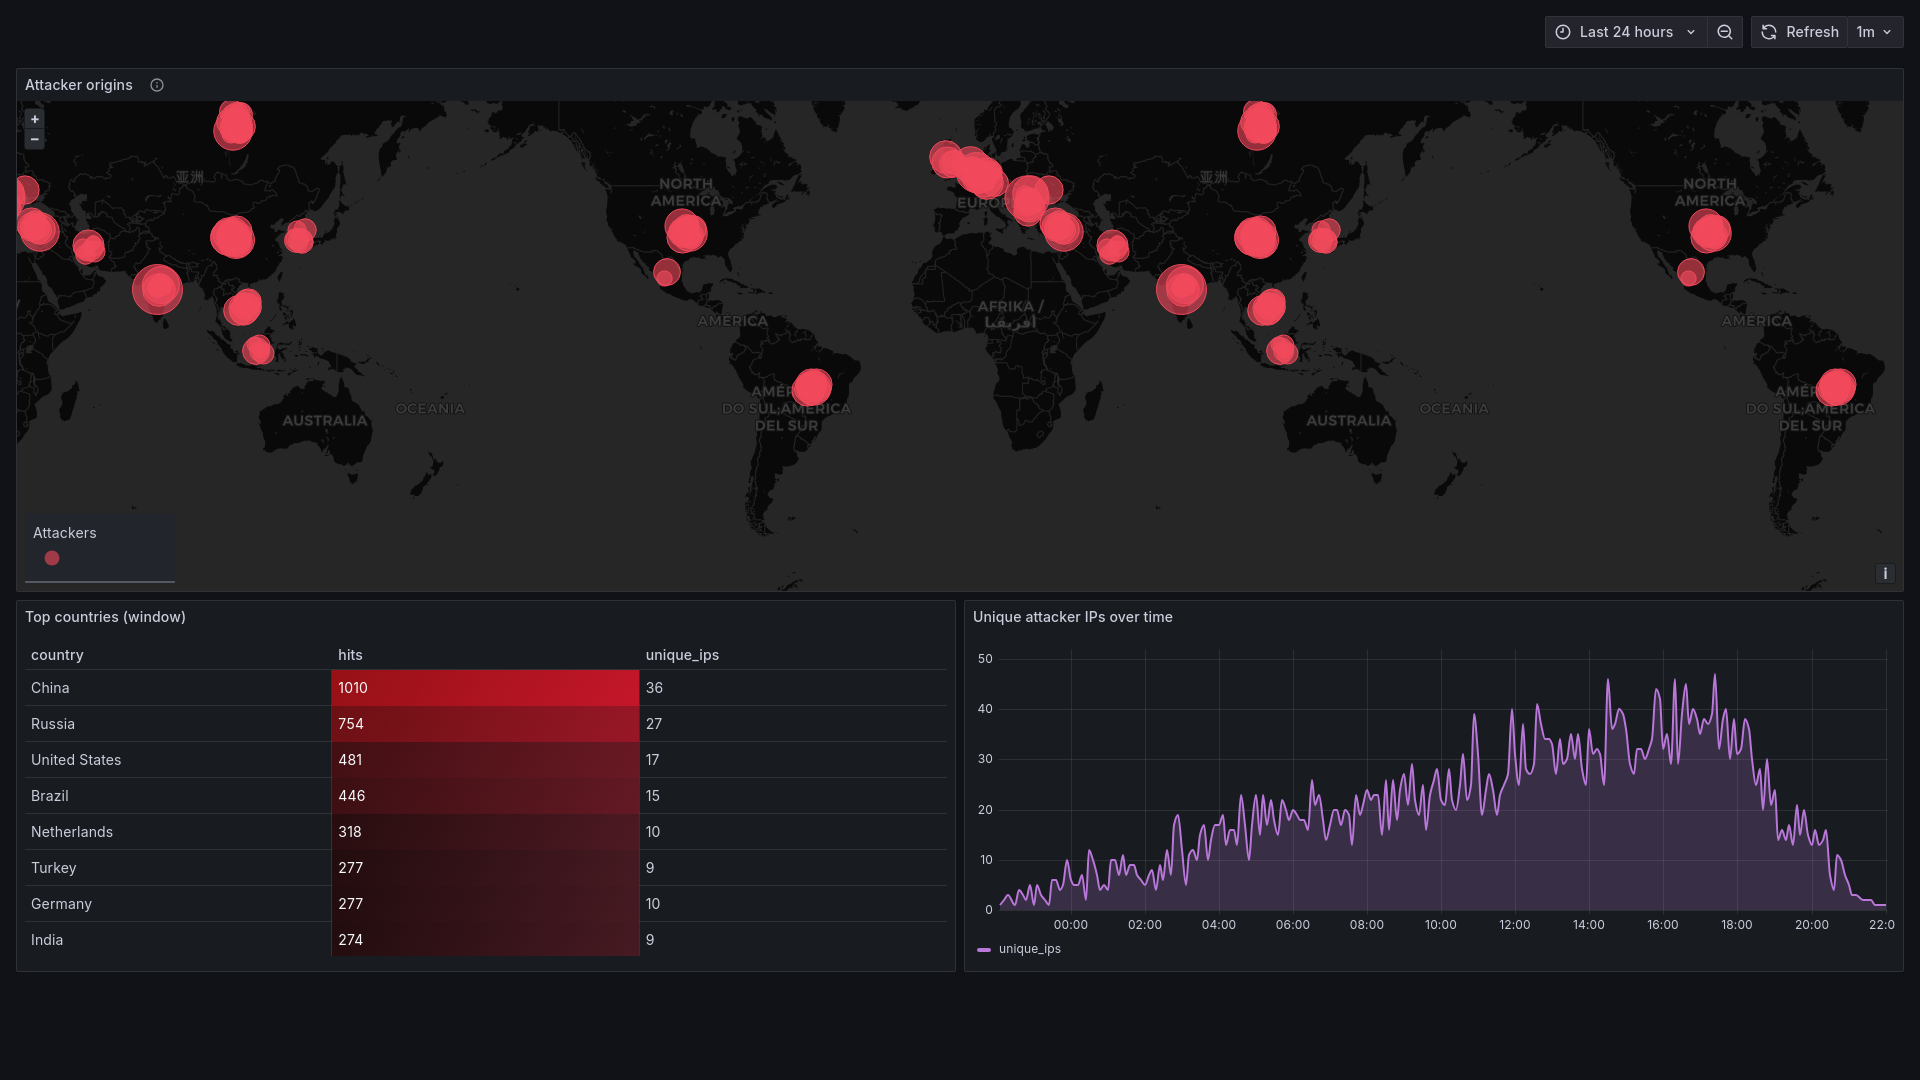
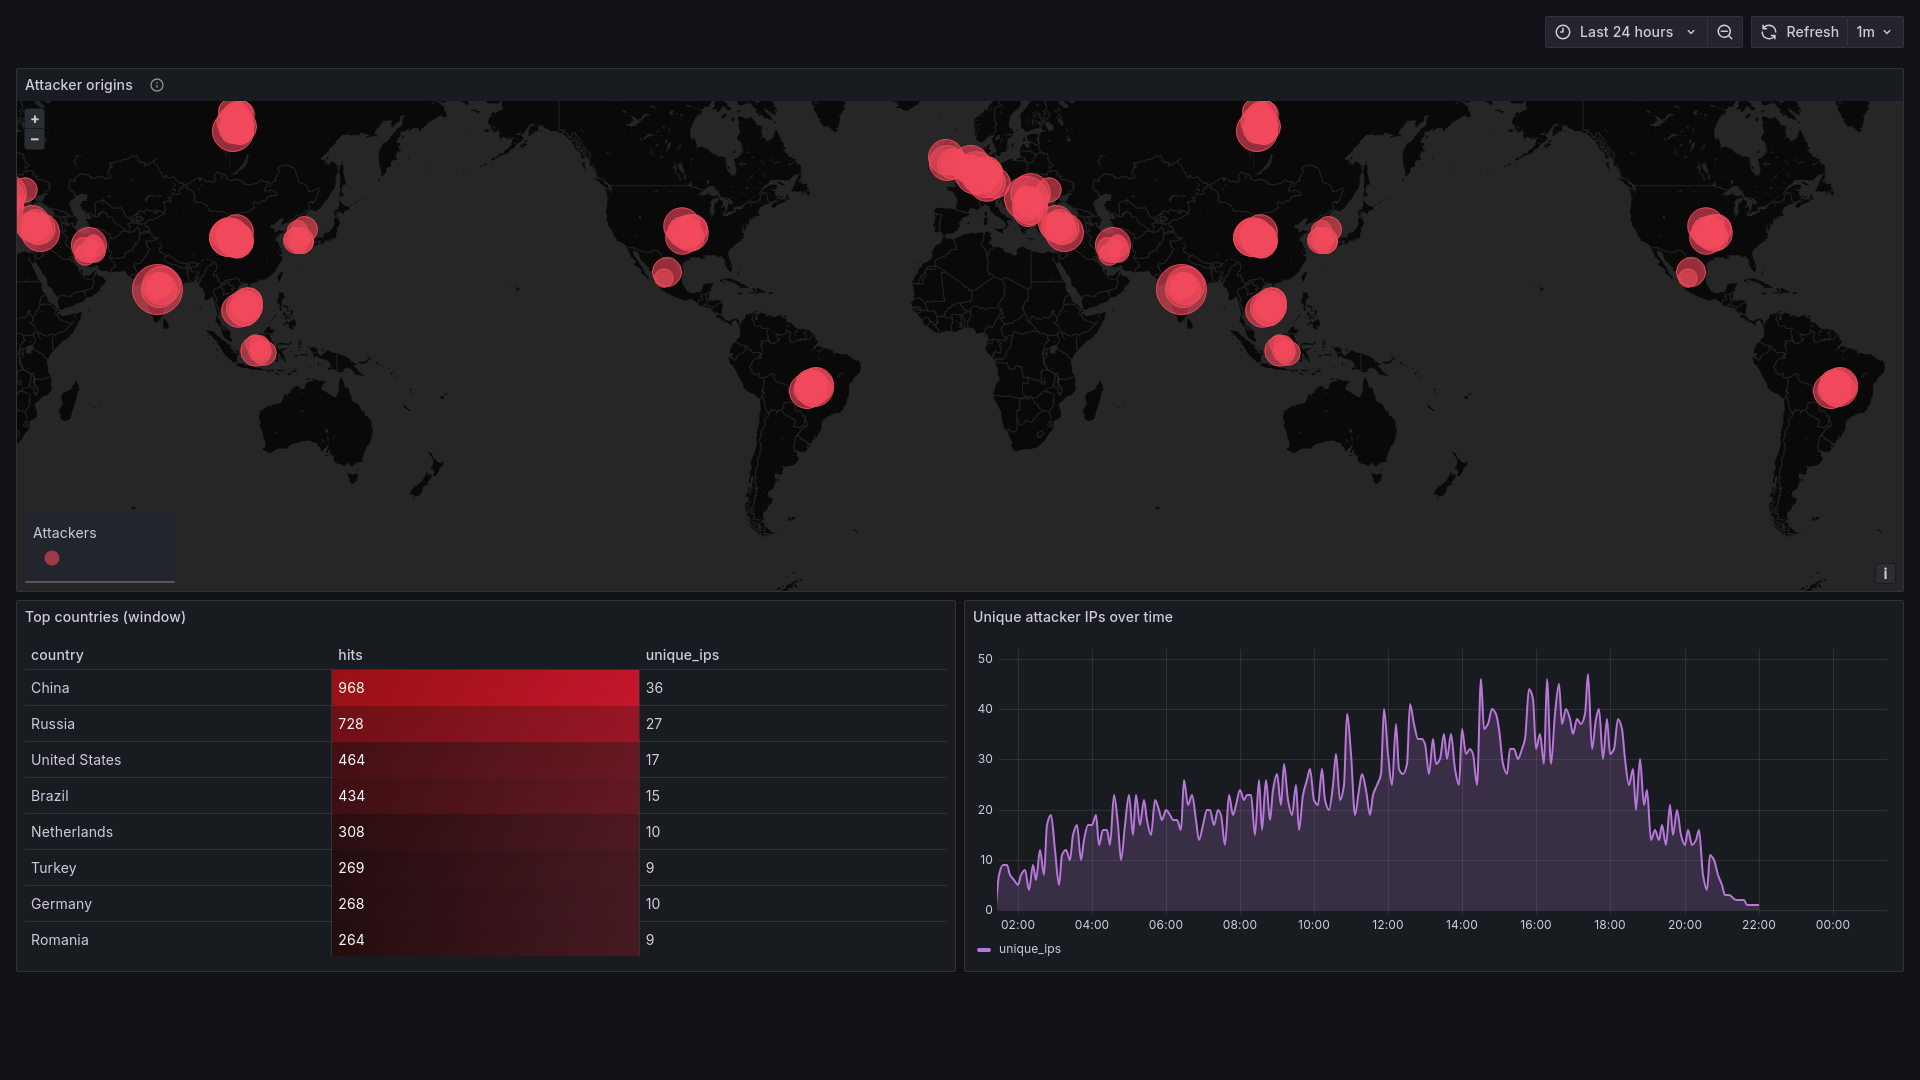
Fix the two dashboard polish items found during live inspection
Threat map: the geomap panel's default basemap resolves to CARTO's free
basemaps.cartocdn.com raster tiles, which render OSM's local-language place
names with no English-only variant at that endpoint — country/city labels
showed up mixed Portuguese/Arabic/Chinese/English. `showLabels: false`
removes labels entirely rather than chasing a tile provider that promises
consistent English (which would add an API-key dependency the docker-compose
demo doesn't otherwise need) — the adjacent "Top countries" table already
carries that detail.

MITRE dashboard: the "Tactic timeline" panel stacked up to 14 tactics as a
filled area chart with Grafana's auto-assigned palette, which repeats/shades
hues past ~8 series — several kill-chain-adjacent tactics rendered as
indistinguishable shades of blue/purple. Fixed with three changes: explicit
per-tactic fixed colors (hue-interleaved across the wheel so tactics likely
to co-occur land furthest apart, not next to each other), un-stacked/lightly
filled lines instead of a blended stacked area, and a log-scale y-axis —
this last one because un-stacking revealed a second problem the stacked view
had been masking: Credential Access outweighs the other tactics 10-100x in
raw count, so even with correct colors every smaller series flattened to
invisible near zero on a linear axis. Verified by re-rendering both
dashboards through the project's existing headless-Chromium pipeline and
[…]

diff --git a/tests/unit/test_mitre_dashboard.py b/tests/unit/test_mitre_dashboard.py
@@ -222,3 +222,66 @@ def test_table_panels_format_timestamps_rather_than_returning_raw_columns():
             assert not re.search(
                 r"(?<!strftime\(')(?:MAX|MIN)\(\s*timestamp\s*\)\s+AS", sql, re.I
             ), f"{panel.get('title')}: selects a raw timestamp column"
+
+
+# ── Tactic timeline: every tactic gets its own distinguishable color ────────
+#
+# Grafana's auto-palette repeats/shades hues past ~8 series, which is exactly
+# the range this panel needs (up to 14 tactics) — the original symptom was a
+# handful of kill-chain-adjacent tactics rendering as indistinguishable
+# shades of blue/purple in a filled, stacked chart. Fixed per-tactic colors
+# replace the auto-palette; these tests hold that fix in place rather than
+# letting a future edit quietly drop back to Grafana's default assignment.
+
+
+def test_every_tactic_has_a_fixed_color_override():
+    from honeypot_mcp.intel.mitre import TACTIC_ORDER
+
+    dashboard = json.loads(DASHBOARD.read_text())
+    panel = next(p for p in dashboard["panels"] if p["title"] == "Tactic timeline")
+    overridden = {
+        o["matcher"]["options"]
+        for o in panel["fieldConfig"]["overrides"]
+        if o["matcher"]["id"] == "byName"
+    }
+    missing = set(TACTIC_ORDER) - overridden
+    assert not missing, f"tactic(s) with no fixed color override: {missing}"
+
+
+def test_tactic_colors_are_unique():
+    dashboard = json.loads(DASHBOARD.read_text())
+    panel = next(p for p in dashboard["panels"] if p["title"] == "Tactic timeline")
+    colors = [
+        prop["value"]["fixedColor"]
+        for o in panel["fieldConfig"]["overrides"]
+        for prop in o["properties"]
+        if prop["id"] == "color"
+    ]
+    assert len(colors) == len(set(colors)), f"two tactics share a color: {colors}"
+
+
+def test_tactic_timeline_is_not_stacked():
+    """A filled, stacked area chart blends overlapping bands into a muddy
+    blob — the panel's actual question ('when did which tactic spike') is
+    better served by overlaid lines than a cumulative stacked view, and it
+    also happens to be far easier to color-distinguish."""
+    dashboard = json.loads(DASHBOARD.read_text())
+    panel = next(p for p in dashboard["panels"] if p["title"] == "Tactic timeline")
+    assert panel["fieldConfig"]["defaults"]["custom"]["stacking"]["mode"] == "none"
+
+
+# ── Threat map: basemap must not render place labels ────────────────────────
+
+
+def test_threat_map_basemap_has_no_labels():
+    """CARTO's default XYZ raster basemap renders place names in each
+    region's local language with no English-only variant available on the
+    free basemaps.cartocdn.com endpoint — the fix is not showing labels at
+    all (the adjacent 'Top countries' table already carries that detail),
+    not chasing a tile provider that promises consistent English."""
+    path = ROOT / "docker" / "grafana" / "dashboards" / "02-threat-map.json"
+    dashboard = json.loads(path.read_text())
+    geomap_panels = [p for p in dashboard["panels"] if p.get("type") == "geomap"]
+    assert geomap_panels, "no geomap panel found in the threat map dashboard"
+    for panel in geomap_panels:
+        assert panel["options"]["basemap"]["config"].get("showLabels") is False

diff --git a/CLAUDE.md b/CLAUDE.md
@@ -21,7 +21,7 @@ uv run python -m honeypot_mcp.server
 # or via the installed script
 honeypot-mcp
 
-# Tests (814 unit tests covering security-critical paths)
+# Tests (818 unit tests covering security-critical paths)
 uv run pytest tests/unit/ -v
 uv run pytest tests/unit/test_tokens.py -v
 uv run pytest tests/unit/test_tokens.py::test_aws_key_format
@@ -1049,6 +1049,32 @@ Re-run the generator after touching mappings or adding an engine. Tactic IDs
 Multi-tactic events count under *every* tactic they map to — hence UNION ALL
 rather than CASE, which can only bucket a row once and would under-report the
 later tactic.
+
+**The "Tactic timeline" panel's styling is hand-maintained, not generated** —
+`generate_mitre_dashboard.py` only rewrites the two panels' SQL (`_set_panel_sql`
+patches `queryText`/`rawQueryText` in place), so `fieldConfig`/`options` survive
+regeneration untouched and can be edited directly without fighting
+`test_dashboard_matches_the_generator`. That panel now carries fixed, per-tactic
+`fieldConfig.overrides` colors (up to 14 series — Grafana's auto-palette repeats
+hues past ~8, which is exactly the range this panel needs) and
+`scaleDistribution: {type: "log"}`, not just distinct colors: un-stacking the
+chart to fix color legibility (a filled, stacked area blends overlapping bands
+into a muddy blob) revealed a second, different problem — Credential Access
+outweighs the other tactics by 10-100x in raw count, so on a linear axis every
+smaller series still flattens to invisible near zero even with correct colors.
+Log scale is what actually makes a Persistence spike of 3 events visible next to
+a Credential Access band in the thousands. `test_every_tactic_has_a_fixed_color_override` /
+`test_tactic_colors_are_unique` / `test_tactic_timeline_is_not_stacked` pin this.
+
+**The threat map's basemap must not render place labels.** Its `"type": "default"`
+basemap resolves to CARTO's free `basemaps.cartocdn.com` raster XYZ tiles, which
+render OSM's local-language place names with no English-only variant available at
+that endpoint — country/city labels showed up in a mix of Portuguese, Arabic and
+Chinese script. `showLabels: false` in the basemap config removes labels entirely
+rather than chasing a tile provider that promises consistent English (which would
+also add an API-key dependency this docker-compose demo doesn't otherwise need);
+the adjacent "Top countries" table already carries that detail in the viewer's own
+language. `test_threat_map_basemap_has_no_labels` pins it.
 
 **Timeseries panels derive their bucket width from the window, never hardcode
 it.** Every Grafana timeseries query buckets on

diff --git a/README.md b/README.md
@@ -3,7 +3,7 @@
 [![CI](https://github.com/tohudgins/HoneyPot-MCP/actions/workflows/ci.yml/badge.svg?branch=main)](https://github.com/tohudgins/HoneyPot-MCP/actions/workflows/ci.yml)
 [![License: MIT](https://img.shields.io/badge/License-MIT-yellow.svg)](LICENSE)
 [![Python](https://img.shields.io/badge/python-3.11%E2%80%933.14-blue)](pyproject.toml)
-[![Tests](https://img.shields.io/badge/tests-814%20unit%20%2B%206%20e2e-brightgreen)](tests/)
+[![Tests](https://img.shields.io/badge/tests-818%20unit%20%2B%206%20e2e-brightgreen)](tests/)
 
 **Deception infrastructure you drive by talking to it.** Deploy honeypots across 25
 protocols, plant honeytokens, and analyse what attackers actually do — from a chat
@@ -149,7 +149,7 @@ Three design decisions worth calling out:
 <tr><td><b>Operations</b></td><td>Health watchdog, restart reconciliation, retention sweep, per-IP connection caps, end-to-end self-test, Prometheus <code>/metrics</code>, Alembic migrations, JSON logging</td></tr>
 </table>
 
-814 unit tests plus 6 end-to-end pipeline tests cover the security-critical paths; ruff and mypy are blocking in CI
+818 unit tests plus 6 end-to-end pipeline tests cover the security-critical paths; ruff and mypy are blocking in CI
 across Python 3.11–3.14.
 
 ---
@@ -487,7 +487,7 @@ Without a forwarder these are believable decoys with no callback. Said plainly i
 ## Development
 
 ```bash
-uv run pytest tests/unit/ -v     # 814 unit tests
+uv run pytest tests/unit/ -v     # 818 unit tests
 uv run ruff check src/ tests/
 uv run mypy src/
 ```
